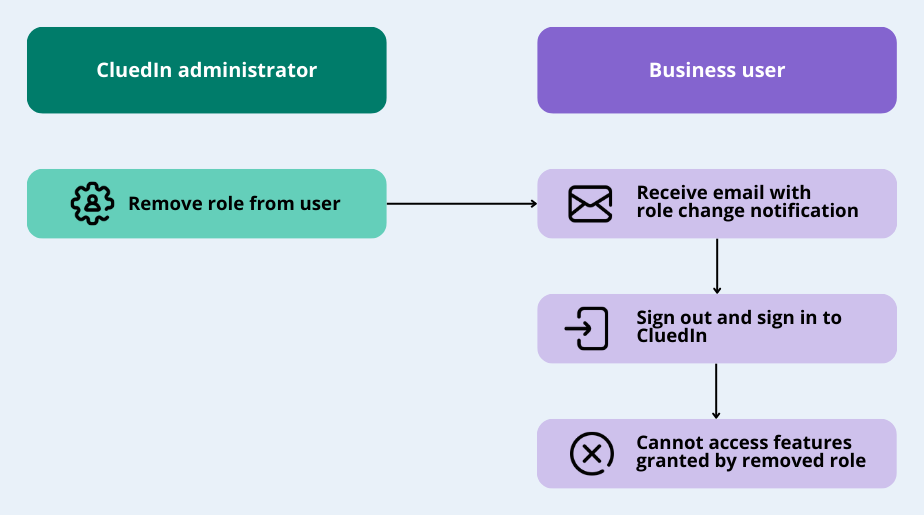
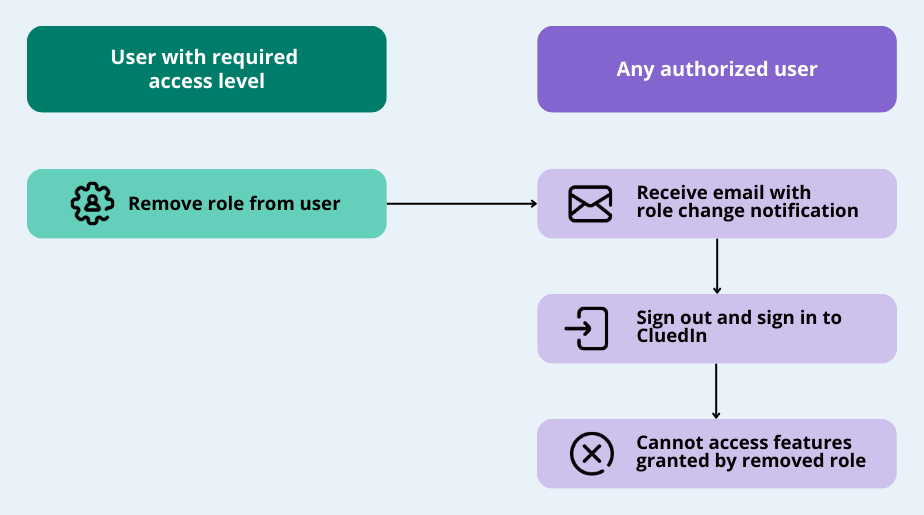
Updated Remove Roles

diff --git a/docs/030-administration/050-permissions.md b/docs/030-administration/050-permissions.md
@@ -13,7 +13,12 @@ tags: ["administration", "permissions"]
 
 In this article, you will learn how to restrict access to data using a global security filter and how to add permissions for users to specific data.
 
-**_This article is intended for CluedIn administrators._**
+**_This article is intended for users with the OrganizationAdmin role or users with the following claim access levels._**
+
+| Section | Claim | Access level |
+|--|--|--|
+| Admin | Users | at least Consulted |
+| Admin | Roles | at least Consulted |
 
 To make sure that the right users have access to the right data, perform the following steps:
 

diff --git a/docs/030-administration/040-remove-roles.md b/docs/030-administration/040-remove-roles.md
@@ -10,7 +10,12 @@ tags: ["administration", "roles"]
 
 In this article, you will learn how to remove roles from users so that they are restricted from performing operations in CluedIn.
 
-_**This article is intended for CluedIn administrators.**_
+**_This article is intended for users with the OrganizationAdmin role or users with the following claim access levels._**
+
+| Section | Claim | Access level |
+|--|--|--|
+| Admin | Users | at least Consulted |
+| Admin | Roles | at least Consulted |
 
 The following diagram shows the flow of removing roles from the user.
 
